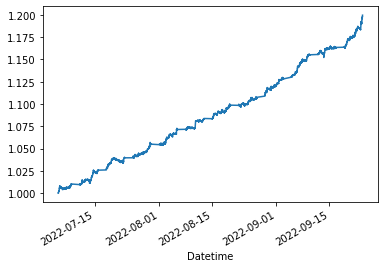
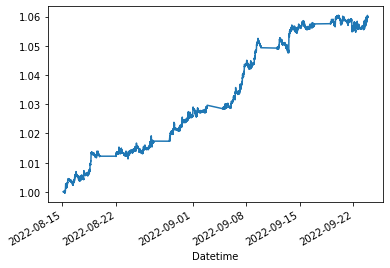
added KPIs, and slightly modified strategy in backtesting, also added updated graph

diff --git a/strategy_backtesting.py b/strategy_backtesting.py
@@ -39,6 +39,33 @@ def RSI(DF, n=14):
     df["rsi"] = 100 - (100/(1+df["rs"]))
     return df["rsi"]
 
+#KPIs
+
+def CAGR(DF):
+    df = DF.copy()
+    df["cum_return"] = (1+df["ret"]).cumprod()
+    n = len(df)/(252*78)
+    CAGR = (df["cum_return"].tolist()[-1])**(1/n) - 1
+    return CAGR
+
+
+def volatility(DF):
+    df = DF.copy()
+    vol = df["ret"].std() * np.sqrt(252*78) # annualized volatility
+    return vol
+
+def Sharpe(DF, rf):
+    df = DF.copy()
+    sharpe = (CAGR(df) - rf) / volatility(df)
+    return sharpe
+
+def maximum_drawdown(DF):
+    df = DF.copy()
+    df["cum_return"] = (1+df["ret"]).cumprod()
+    df["cum_rolling_max"] = df["cum_return"].cummax()
+    df["drawdown"] = df["cum_rolling_max"] - df["cum_return"]
+    return (df["drawdown"]/df["cum_rolling_max"]).max()
+
 
 
 # Downloading Data
@@ -94,26 +121,27 @@ for ticker in stocks:
                 tickers_signal[ticker] = "Buy"
                 
                 sl = df[ticker]["Adj Close"][i] * 0.997
-                tp = df[ticker]["Adj Close"][i] * 1.0003
+                tp = df[ticker]["Adj Close"][i] * 1.0004
             elif (((df[ticker]["above_cloud"][i-1] == -1)  and (df[ticker]["A_above_B"][i-1] == -1)  and (df[ticker]['tenkan_kiju_cross'][i-1]==-1))  or df[ticker]['price_tenkan_cross'][i-1] == -1)  and df[ticker]["RSI"][i] < 40:
                 tickers_signal[ticker] = "Sell"
                 sl = df[ticker]["Adj Close"][i] * 1.001
                 tp = df[ticker]["Adj Close"][i] * 0.997
                 
         elif tickers_signal[ticker] == "Buy":
+            
+            if sl >= df[ticker]["Low"][i]:
+                tickers_signal[ticker] = ""
+                tickers_ret[ticker].append(((df[ticker]["Low"][i]/df[ticker]["Adj Close"][i-1])-1))
+                sl_count += 1
+                trade_count += 1
 
             
-            if tp <= df[ticker]["High"][i]:
+            elif tp <= df[ticker]["High"][i]:
                 tickers_signal[ticker] = ""
                 tickers_ret[ticker].append(((df[ticker]["High"][i]/df[ticker]["Adj Close"][i-1])-1))
                 tp_count += 1
                 trade_count += 1
 
-            elif sl >= df[ticker]["Low"][i]:
-                tickers_signal[ticker] = ""
-                tickers_ret[ticker].append(((df[ticker]["Low"][i]/df[ticker]["Adj Close"][i-1])-1))
-                sl_count += 1
-                trade_count += 1
             
             elif (((df[ticker]["above_cloud"][i-1] == -1)  and (df[ticker]["A_above_B"][i-1] == -1)  and (df[ticker]['tenkan_kiju_cross'][i-1]==-1))  or df[ticker]['price_tenkan_cross'][i-1] == -1)  and df[ticker]["RSI"][i] < 40:
                 tickers_ret[ticker].append(((df[ticker]["Adj Close"][i]/df[ticker]["Adj Close"][i-1])-1))
@@ -121,7 +149,7 @@ for ticker in stocks:
                 trade_count += 1
 
                 
-            elif (df[ticker]["above_cloud"][i-1] == -1):
+            elif (df[ticker]['tenkan_kiju_cross'][i-1]==-1):
                 tickers_ret[ticker].append(((df[ticker]["Adj Close"][i]/df[ticker]["Adj Close"][i-1])-1))
                 tickers_signal[ticker] = ""
                 trade_count += 1
@@ -134,25 +162,27 @@ for ticker in stocks:
             
         elif tickers_signal[ticker] == "Sell":
             
-            
-            if tp >= df[ticker]["Low"][i]:
-                tickers_ret[ticker].append(((df[ticker]["Low"][i-1]/df[ticker]["Adj Close"][i])-1))
-                tickers_signal[ticker] = ""
-                tp_count += 1
-                trade_count += 1
-
-            elif sl <= df[ticker]["High"][i]:
+            if sl <= df[ticker]["High"][i]:
                 tickers_ret[ticker].append(((df[ticker]["High"][i-1]/df[ticker]["Adj Close"][i])-1))
                 tickers_signal[ticker] = ""
                 sl_count += 1
                 trade_count += 1
+            
+            
+            elif tp >= df[ticker]["Low"][i]:
+                tickers_ret[ticker].append(((df[ticker]["Low"][i-1]/df[ticker]["Adj Close"][i])-1))
+                tickers_signal[ticker] = ""
+                tp_count += 1
+                trade_count += 1
+                
+            
             
             elif (((df[ticker]["above_cloud"][i-1] == 1)  and (df[ticker]["A_above_B"][i-1] == 1)  and (df[ticker]['tenkan_kiju_cross'][i-1]==1))  or df[ticker]['price_tenkan_cross'][i-1] == 1)  and df[ticker]["RSI"][i] > 60:
                 tickers_ret[ticker].append(((df[ticker]["Adj Close"][i-1]/df[ticker]["Adj Close"][i])-1))
                 tickers_signal[ticker] = "Buy"
                 trade_count += 1
                 
-            elif (df[ticker]["above_cloud"][i-1] == 1):
+            elif (df[ticker]['tenkan_kiju_cross'][i-1]==1):
                 tickers_ret[ticker].append(((df[ticker]["Adj Close"][i-1]/df[ticker]["Adj Close"][i])-1))
                 tickers_signal[ticker] = ""
                 trade_count += 1
@@ -185,6 +215,9 @@ for ticker in stocks:
     strategy_df["ret"] = strategy_df.mean(axis=1)  
 
 (1+strategy_df["ret"]).cumprod().plot()
+print("CAGR is ", CAGR(strategy_df))
+print("Sharpe is ", Sharpe(strategy_df, 0.025))
+print("Maximum drawdown is ", maximum_drawdown(strategy_df))
  
     
     

diff --git a/live_strategy.py b/live_strategy.py
@@ -132,13 +132,13 @@ def main():
             
             if signal == "Buy":
                 sl = round(ohlc_df["c"].tolist()[-1] * 0.997,3)
-                tp = round(ohlc_df["c"].tolist()[-1] * 1.0007,3)
+                tp = round(ohlc_df["c"].tolist()[-1] * 1.0005,3)
                 market_order(currency,pos_size,sl,tp)
                 print("long entered for ", currency)
             
             elif signal == "Sell":
-                sl = round(ohlc_df["c"].tolist()[-1] * 0.997,3)
-                tp = round(ohlc_df["c"].tolist()[-1] * 1.0007,3)
+                sl = round(ohlc_df["c"].tolist()[-1] * 1.001,3)
+                tp = round(ohlc_df["c"].tolist()[-1] * 0.997,3)
                 market_order(currency,-1*pos_size,sl,tp)
                 print("short entered for ", currency)
             
@@ -149,7 +149,7 @@ def main():
             
             elif signal == "Close_Buy":
                 sl = round(ohlc_df["c"].tolist()[-1] * 0.997,3)
-                tp = round(ohlc_df["c"].tolist()[-1] * 1.0007,3)
+                tp = round(ohlc_df["c"].tolist()[-1] * 1.0005,3)
                 market_order(currency,pos_size,sl,tp)
                 market_order(currency,pos_size,sl,tp)
                 print("short closed and long entered for ", currency)
